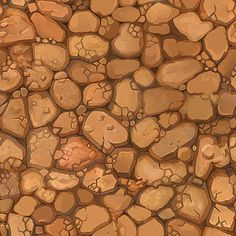
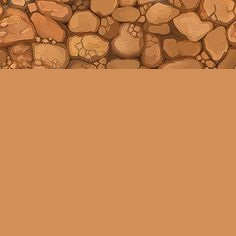
Wykonano lab3 v2
Poprawiono tlo 2

diff --git a/Lab3_PlayerAnimTiles/js/gameCanvas.js b/Lab3_PlayerAnimTiles/js/gameCanvas.js
@@ -30,10 +30,9 @@ function onReady() {
         context: aContext
     }), aBackground2 = new BackgroundType({
         nWorldWidth: 5000,
-        y: 800,
-        nWidth: 800,
-        nHeight: 108,
-        strURL: "images/game_background2.jpg",
+        nWidth: 200,
+        nHeight: 100,
+        strURL: "images/lijany.png",
         context: aContext
     }), aPlayer = new PlayerUserType({
         context: aContext
@@ -58,10 +57,10 @@ function onReady() {
     aAnimStandEnemy.appendFrame(560, 0);
     aEnemy.setAnimation(aAnimStandEnemy);
     const aMapTiles_Level10 = [
-        [0, 0, 2, 0, 0, 0, 0, 0, 0, 0, 0, 0, 0, 0, 0, 0, 0, 0, 1, 0],
+        [0, 0, 2, 0, 0, 0, 0, 0, 0, 0, 0, 0, 0, 0, 0, 0, 0, 0, 2, 0],
         [0, 0, 0, 0, 0, 0, 0, 0, 0, 0, 0, 0, 0, 0, 0, 0, 0, 0, 0, 0],
         [0, 0, 0, 0, 0, 0, 0, 0, 0, 0, 0, 0, 0, 0, 0, 2, 0, 0, 0, 0],
-        [0, 0, 0, 0, 0, 1, 0, 0, 0, 0, 0, 0, 0, 0, 0, 0, 0, 0, 0, 0],
+        [0, 0, 0, 0, 0, 2, 0, 0, 0, 0, 0, 0, 0, 0, 0, 0, 0, 0, 0, 0],
         [0, 0, 0, 0, 0, 0, 0, 0, 0, 0, 0, 0, 0, 0, 0, 0, 0, 0, 0, 0],
         [0, 0, 0, 0, 0, 0, 0, 0, 0, 0, 0, 0, 0, 0, 0, 0, 0, 0, 0, 0],
         [1, 3, 1, 1, 2, 1, 1, 1, 1, 3, 2, 1, 1, 1, 1, 1, 1, 2, 1, 1]
@@ -69,7 +68,7 @@ function onReady() {
         strURL: "images/game_tiles.png",
         context: aContext
     }), aAnimTile1 = new AnimationType({
-        strURL: "images/game_tiles.png",
+        strURL: "images/game_tiles2.png",
         context: aContext
     }), aAnimTile2 = new AnimationType({
         strURL: "images/game_tiles.png",

diff --git a/Lab3_PlayerAnimTiles/src/gameCanvas.ts b/Lab3_PlayerAnimTiles/src/gameCanvas.ts
@@ -38,10 +38,9 @@ function onReady() {
 
     aBackground2 = new BackgroundType({
         nWorldWidth: 5000,
-        y: 800,
-        nWidth: 800, 
-        nHeight: 108,
-        strURL: "images/game_background2.jpg",
+        nWidth: 200, 
+        nHeight: 100,
+        strURL: "images/lijany.png",
         context: aContext
     }),
 
@@ -75,10 +74,10 @@ function onReady() {
     aEnemy.setAnimation(aAnimStandEnemy)
 
     const aMapTiles_Level10 = [
-        [0,0,2,0,0,0,0,0,0,0,0,0,0,0,0,0,0,0,1,0],
+        [0,0,2,0,0,0,0,0,0,0,0,0,0,0,0,0,0,0,2,0],
         [0,0,0,0,0,0,0,0,0,0,0,0,0,0,0,0,0,0,0,0],
         [0,0,0,0,0,0,0,0,0,0,0,0,0,0,0,2,0,0,0,0],
-        [0,0,0,0,0,1,0,0,0,0,0,0,0,0,0,0,0,0,0,0],
+        [0,0,0,0,0,2,0,0,0,0,0,0,0,0,0,0,0,0,0,0],
         [0,0,0,0,0,0,0,0,0,0,0,0,0,0,0,0,0,0,0,0],
         [0,0,0,0,0,0,0,0,0,0,0,0,0,0,0,0,0,0,0,0],
         [1,3,1,1,2,1,1,1,1,3,2,1,1,1,1,1,1,2,1,1]

diff --git a/Lab3_PlayerAnimTiles/css/gameCanvas.css b/Lab3_PlayerAnimTiles/css/gameCanvas.css
@@ -7,4 +7,6 @@
 
 body{
   text-align: center;
+  background-color: black;
+  color: whitesmoke;
 }
